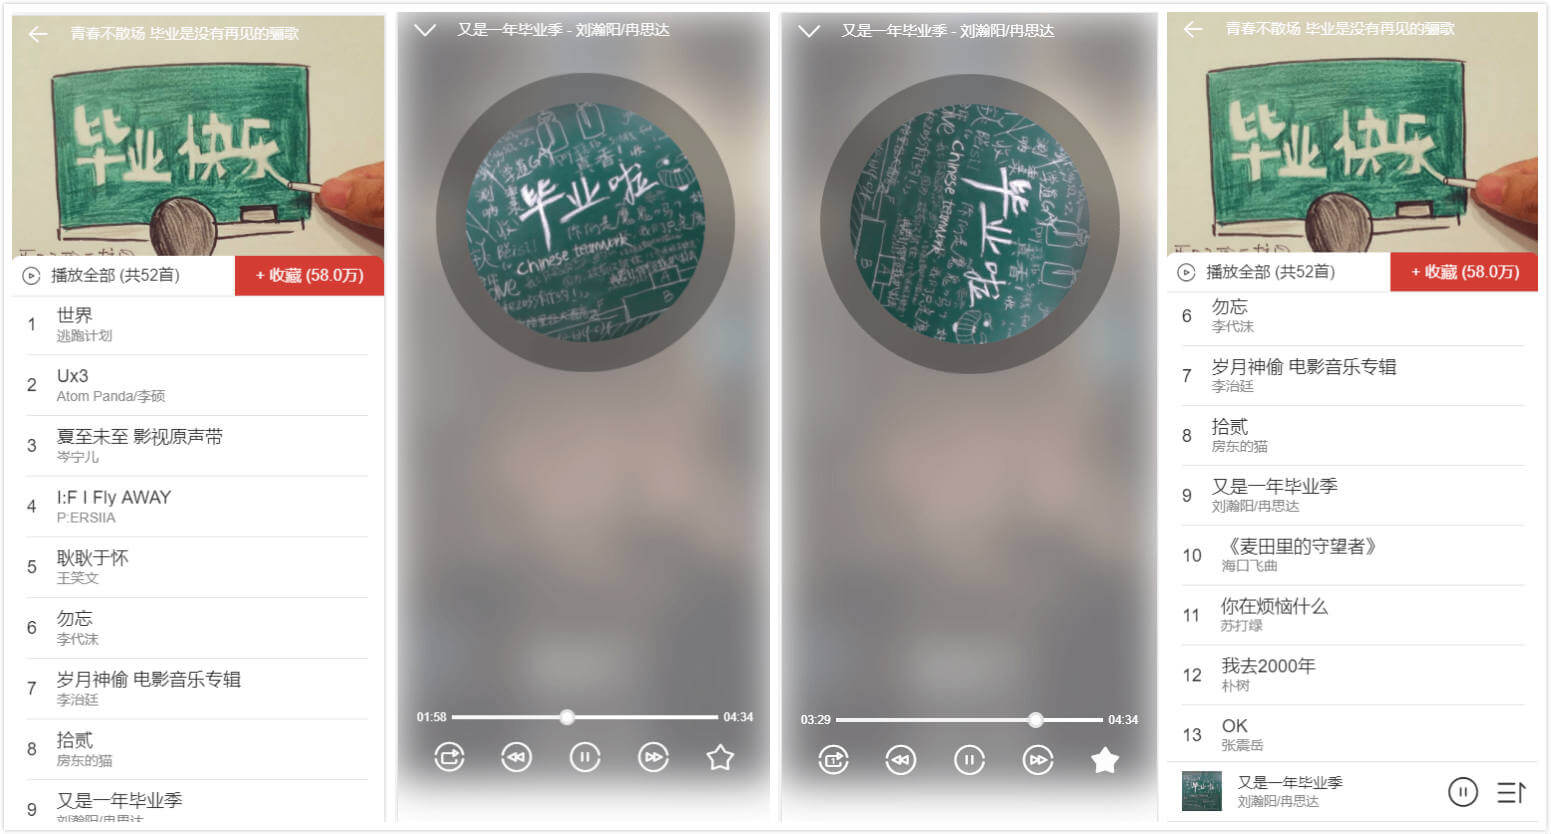
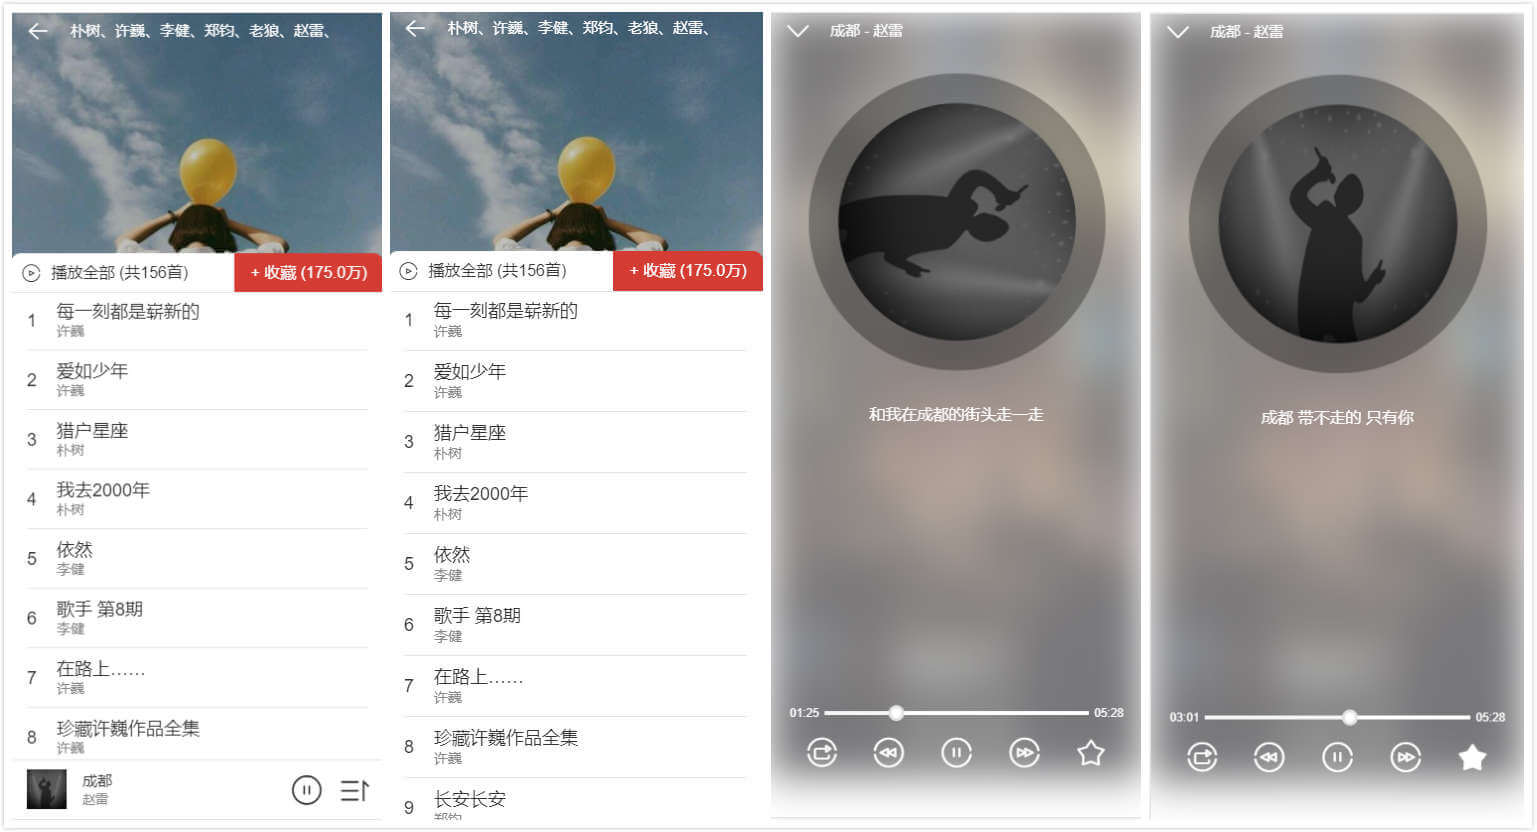
[add] player core add parse lyric

diff --git a/src/views/playPage/play.vue b/src/views/playPage/play.vue
@@ -24,7 +24,7 @@
       <!-- 中间区域 -->
       <div class="middle">
         <!--唱片区域-->
-        <div class="middle-l" ref="middleL">
+        <div class="picture" ref="picture">
           <div class="cd-wrapper" ref="cdWrapper">
             <div class="cd" :class="cdStateClass">
               <Loading1
@@ -37,7 +37,7 @@
           </div>
         </div>
         <!-- 歌词区域 -->
-        <div class="middle-r"></div>
+        <div class="lyric" ref="lyric"></div>
       </div>
       <!-- 底部歌曲操作区域 -->
       <div class="bottom" ref="bottom">
@@ -140,6 +140,7 @@ import { playerMixin } from "common/mixins/player";
 import { mapGetters, mapMutations, mapActions } from "vuex";
 // 一些公共的方法
 import { shuffle, formatTime, getRandomInt } from "common/scripts/util";
+import { Lyric } from "common/scripts/lyric";
 // 初始化添加css前缀方法
 const transform = prefixStyle("transform");
 const transitionDuration = prefixStyle("transitionDuration");
@@ -154,7 +155,7 @@ export default {
   data() {
     return {
       songUrl: "",
-      songLyric: {},
+      songLyric: null,
       songReady: false,
       errorUrlFlag: false,
       nowTime: 0,
@@ -207,10 +208,10 @@ export default {
       this.errorUrlFlag = false;
       this.$refs.audio.src = newUrl;
       this.$refs.audio.play();
-    },
-    songLyric(newLyric) {
-      console.log("歌词", newLyric);
     }
+    // songLyric(newLyric) {
+    //   console.log("歌词", newLyric);
+    // }
   },
   computed: {
     ...mapGetters([
@@ -307,8 +308,8 @@ export default {
         return;
       }
       if (result.code == 200) {
-        let { klyric, lrc } = result;
-        this.songLyric = { klyric, lrc };
+        this.songLyric = null;
+        this.songLyric = new Lyric(result);
       }
     },
     // audio媒体：切换歌曲太块触发dom未加载完毕的错误
@@ -323,6 +324,7 @@ export default {
     // audio媒体：更新进度条
     updateTime(e) {
       this.nowTime = e.target.currentTime;
+      this.$refs.lyric.innerHTML = this.songLyric.getCurPlayLyric(this.nowTime);
       this.allTime = e.target.duration;
     },
     // audio媒体：歌曲播放完毕去播放下一首歌（要判断模式）
@@ -515,10 +517,10 @@ export default {
           easing: "linner"
         }
       });
-      animations.runAnimation(this.$refs.middleL, "move");
+      animations.runAnimation(this.$refs.picture, "move");
       animations.runAnimation(this.$refs.bottom, "move", () => {
         animations.unregisterAnimation("move");
-        this.$refs.middleL && (this.$refs.middleL.style.animation = "");
+        this.$refs.picture && (this.$refs.picture.style.animation = "");
         this.$refs.bottom.style.animation = "";
       });
     },
@@ -556,8 +558,8 @@ export default {
         }
       });
       this.$refs.bottom.style[transform] = `translate3d(0,150%,0)`;
-      animations.runAnimation(this.$refs.middleL, "leave", () => {
-        this.$refs.middleL && (this.$refs.middleL.style.animation = "");
+      animations.runAnimation(this.$refs.picture, "leave", () => {
+        this.$refs.picture && (this.$refs.picture.style.animation = "");
         this.$refs.bottom && (this.$refs.bottom.style[transform] = "");
         this.setFullScreen(false);
       });
@@ -610,7 +612,7 @@ export default {
     }
     .middle {
       padding-top: 50px;
-      .middle-l {
+      .picture {
         display: inline-block;
         vertical-align: top;
         position: relative;
@@ -657,6 +659,19 @@ export default {
             }
           }
         }
+      }
+      .lyric {
+        text-align: center;
+        box-sizing: border-box;
+        padding: 0 32px;
+        width: 100%;
+        color: #ffffff;
+        font-size: @font-size-7;
+        position: absolute;
+        left: 50%;
+        top: 50%;
+        transform: translate(-50%, -50%);
+        z-index: 100;
       }
     }
     .bottom {

diff --git a/src/common/scripts/lyric.js b/src/common/scripts/lyric.js
@@ -1,0 +1,80 @@
+export class Lyric {
+  constructor(data) {
+    this.data = data;
+    this.lrc = data["lrc"]["lyric"];
+    this.tlyric = data["tlyric"]["lyric"];
+    this.lrcMap = this.getLyricMap(this.lrc);
+    this.finalLrcMap = this.convertProp(Object.assign({}, this.lrcMap));
+    this.tlyricMap = this.getLyricMap(this.tlyric);
+    this.finalTlyricMap = this.convertProp(Object.assign({}, this.tlyricMap));
+  }
+  // 以对象形式格式化歌词，{[00:12.570]: "歌词"}
+  getLyricMap(lrc) {
+    let key, value, sIdx, eIdx, nsIdx;
+    let ret = {};
+    if (!lrc || typeof lrc !== "string") return ret;
+    while (lrc) {
+      sIdx = lrc.indexOf("[");
+      eIdx = lrc.indexOf("]") + 1;
+      if (sIdx !== -1 && eIdx !== -1) {
+        key = lrc.slice(sIdx, eIdx);
+        advance(eIdx);
+        nsIdx = lrc.indexOf("[");
+        value = lrc.slice(0, nsIdx);
+        ret[key] = value.trim();
+        advance(nsIdx);
+      } else {
+        break;
+      }
+    }
+    function advance(n) {
+      lrc = lrc.substring(n);
+    }
+    return ret;
+  }
+  // 再次格式化歌词，{12570: "歌词"}，过滤了空串
+  convertProp(obj) {
+    Object.keys(obj).forEach((str) => {
+      if (!obj[str]) {
+        delete obj[str];
+      } else {
+        let prop = f(str);
+        obj[prop] = obj[str];
+        delete obj[str];
+      }
+    });
+    function f(str) {
+      str = str.match(/^\[(\d+):(\d+)\.(\d+)/);
+      return Number(str[1]) * 60 * 1000 + Number(str[2]) * 1000 + Number(str[3]);
+    }
+    return obj;
+  }
+  // 获取当前歌词
+  getCurPlayLyric(audioCurTime) {
+    let audioCurTimeMs = audioCurTime * 1000;
+    let arrTime = Object.keys(this.finalLrcMap);
+    let i = 0,
+      len = arrTime.length,
+      idx;
+    let hasTranslate = Object.keys(this.finalTlyricMap).length > 0;
+    if (audioCurTimeMs === 0) {
+      return g.call(this, arrTime[0]);
+    }
+    if (audioCurTimeMs >= Number(arrTime[len - 1])) {
+      return g.call(this, arrTime[len - 1]);
+    }
+    for (; i < len; i++) {
+      if (audioCurTimeMs >= Number(arrTime[i - 1]) && audioCurTimeMs < Number(arrTime[i])) {
+        idx = i - 1;
+        break;
+      }
+    }
+    return g.call(this, arrTime[idx]);
+    function g(prop) {
+      return hasTranslate ? v(this.finalLrcMap[prop]) + "\n" + v(this.finalTlyricMap[prop]) : v(this.finalLrcMap[prop]);
+    }
+    function v(val) {
+      return typeof val === "undefined" ? "" : val;
+    }
+  }
+}

diff --git a/README.md b/README.md
@@ -36,7 +36,7 @@
 ├─server # 服务端，来源网易云音乐现成 node 接口，完全复制过来的
 └─src
     ├─api # 接口
-    │  └─restfulApi #
+    │  └─restfulApi 
     ├─common
     │  ├─fonts # 图标
     │  ├─images # 图片
@@ -107,7 +107,7 @@
 1. 增加私人 FM、每日推荐、歌单页
 2. 增加歌手列表
 3. 增加歌曲评论
-4. 播放器内核-歌词
+4. ~~播放器内核-歌词~~
 5. ...
 
 ## :rainbow: 实现效果
@@ -226,8 +226,10 @@
    > \$listeners 包含了子组件所有的监听器，来实现事件回传。自定义事件的本质：子组件收集了父组件传入的 listener，也就是自定义事件回调，在$emit 的时候执行这个回调，并且可以传入相应的参数。之前有写过[\$listener 与 vue 自定义事件的联系](https://github.com/dirkhe1051931999/hjBlog/blob/master/blog-vue/lessons/14.md)和[源码分析 vue 的 DOM 事件和自定义事件](https://github.com/dirkhe1051931999/hjBlog/blob/master/blog-vue-sourcecode-study/lessons/30.md)，这两篇文章有助于理解\$listeners
 8. icon 采用 woff
    > 页面上的所有 icon 是用了 woff 文件`common/fonts/font.woff`
-9. webpack 优化
-   > webpack 优化一直是项目中的重点，优化有很多方向：减少代码体积、chunk 和加快构建速度。减少代码体积可以是 tree shaking、scope hosting 和开启 gz，前两者是 webpack4 在生产环境自带的优化功能；加快构建速度可以使用动态链路库 dll。之前有脱离 vue-cli 从基础到深入的使用了 webpack，每一个点都有对应的 demo，并且分析并解决了开启 tree shaking 后会存在的问题。地址：[webpack 深入到进阶](https://github.com/dirkhe1051931999/common-demo/blob/master/webpack-study-notes/readme.md#1)
+9. 单曲歌词如何解析
+   > 接口返回的歌词不是理想的歌词格式，需要进行二次解析与整合，我写了一个解析歌词的 demo:[网易云歌词解析](https://github.com/dirkhe1051931999/hjBlog/blob/master/blog-JavaScript/lessons/26.md)
+10. webpack 优化
+    > webpack 优化一直是项目中的重点，优化有很多方向：减少代码体积、chunk 和加快构建速度。减少代码体积可以是 tree shaking、scope hosting 和开启 gz，前两者是 webpack4 在生产环境自带的优化功能；加快构建速度可以使用动态链路库 dll。之前有脱离 vue-cli 从基础到深入的使用了 webpack，每一个点都有对应的 demo，并且分析并解决了开启 tree shaking 后会存在的问题。地址：[webpack 深入到进阶](https://github.com/dirkhe1051931999/common-demo/blob/master/webpack-study-notes/readme.md#1)
 
 ## :rainbow: 参考
 
